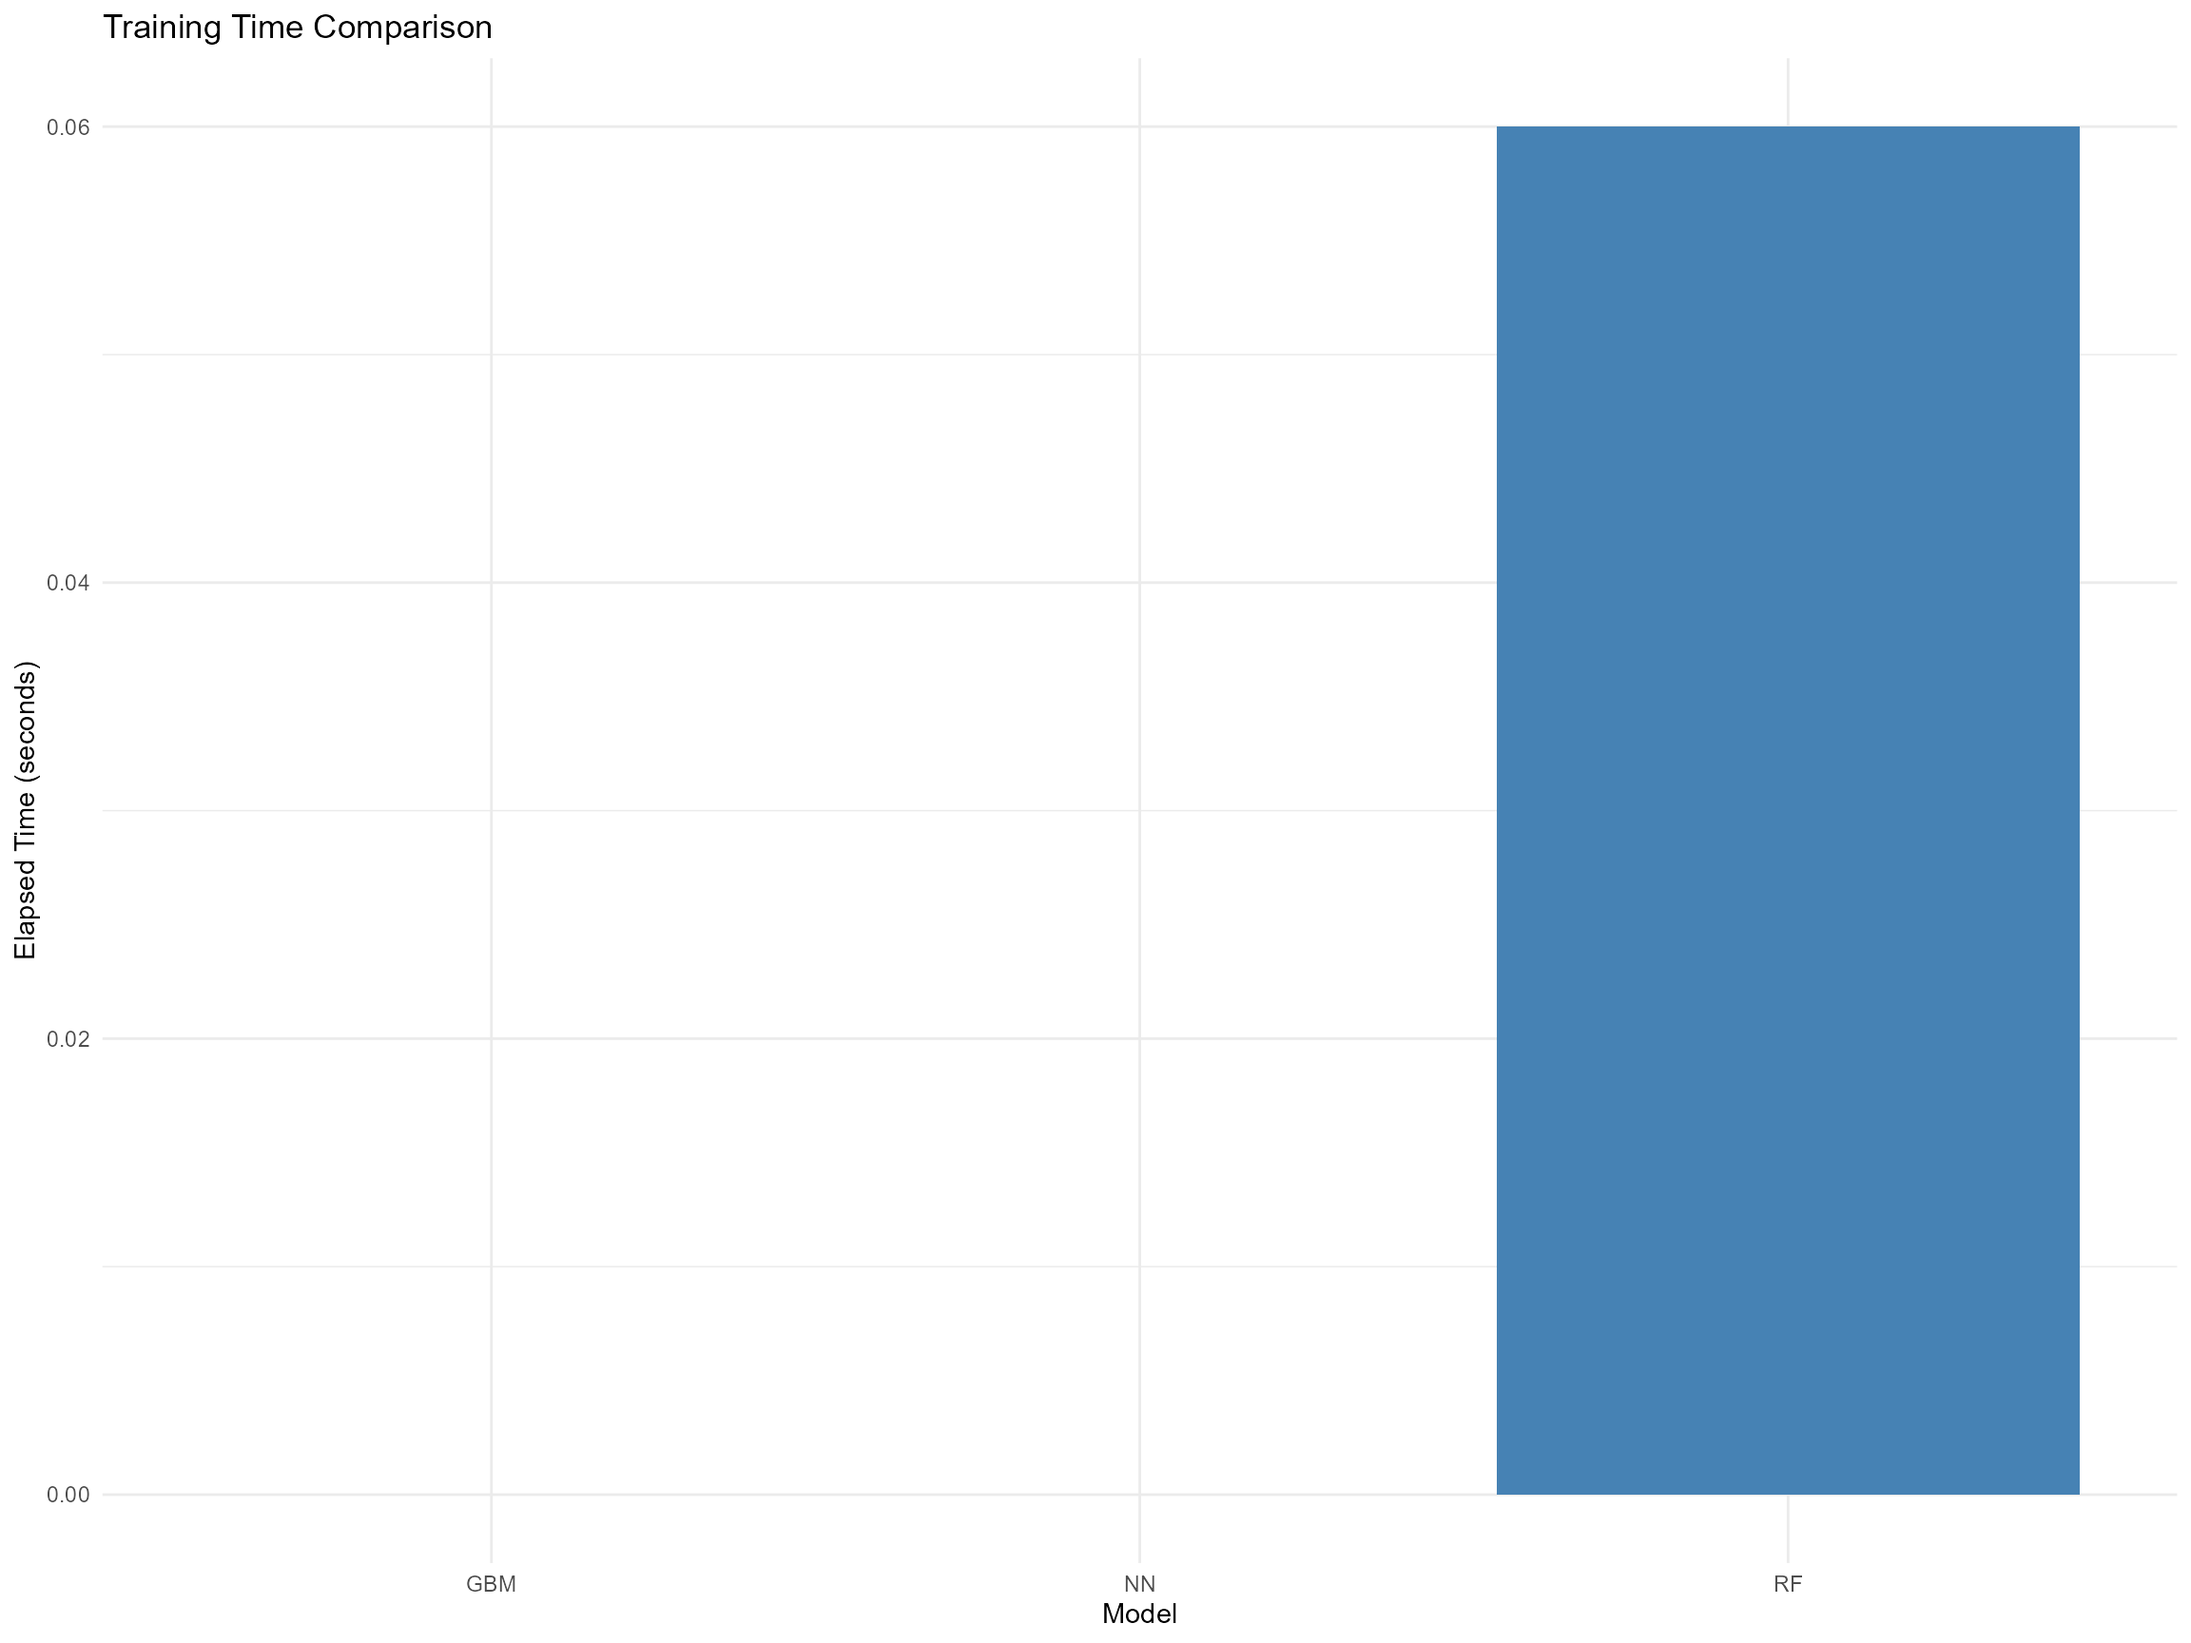
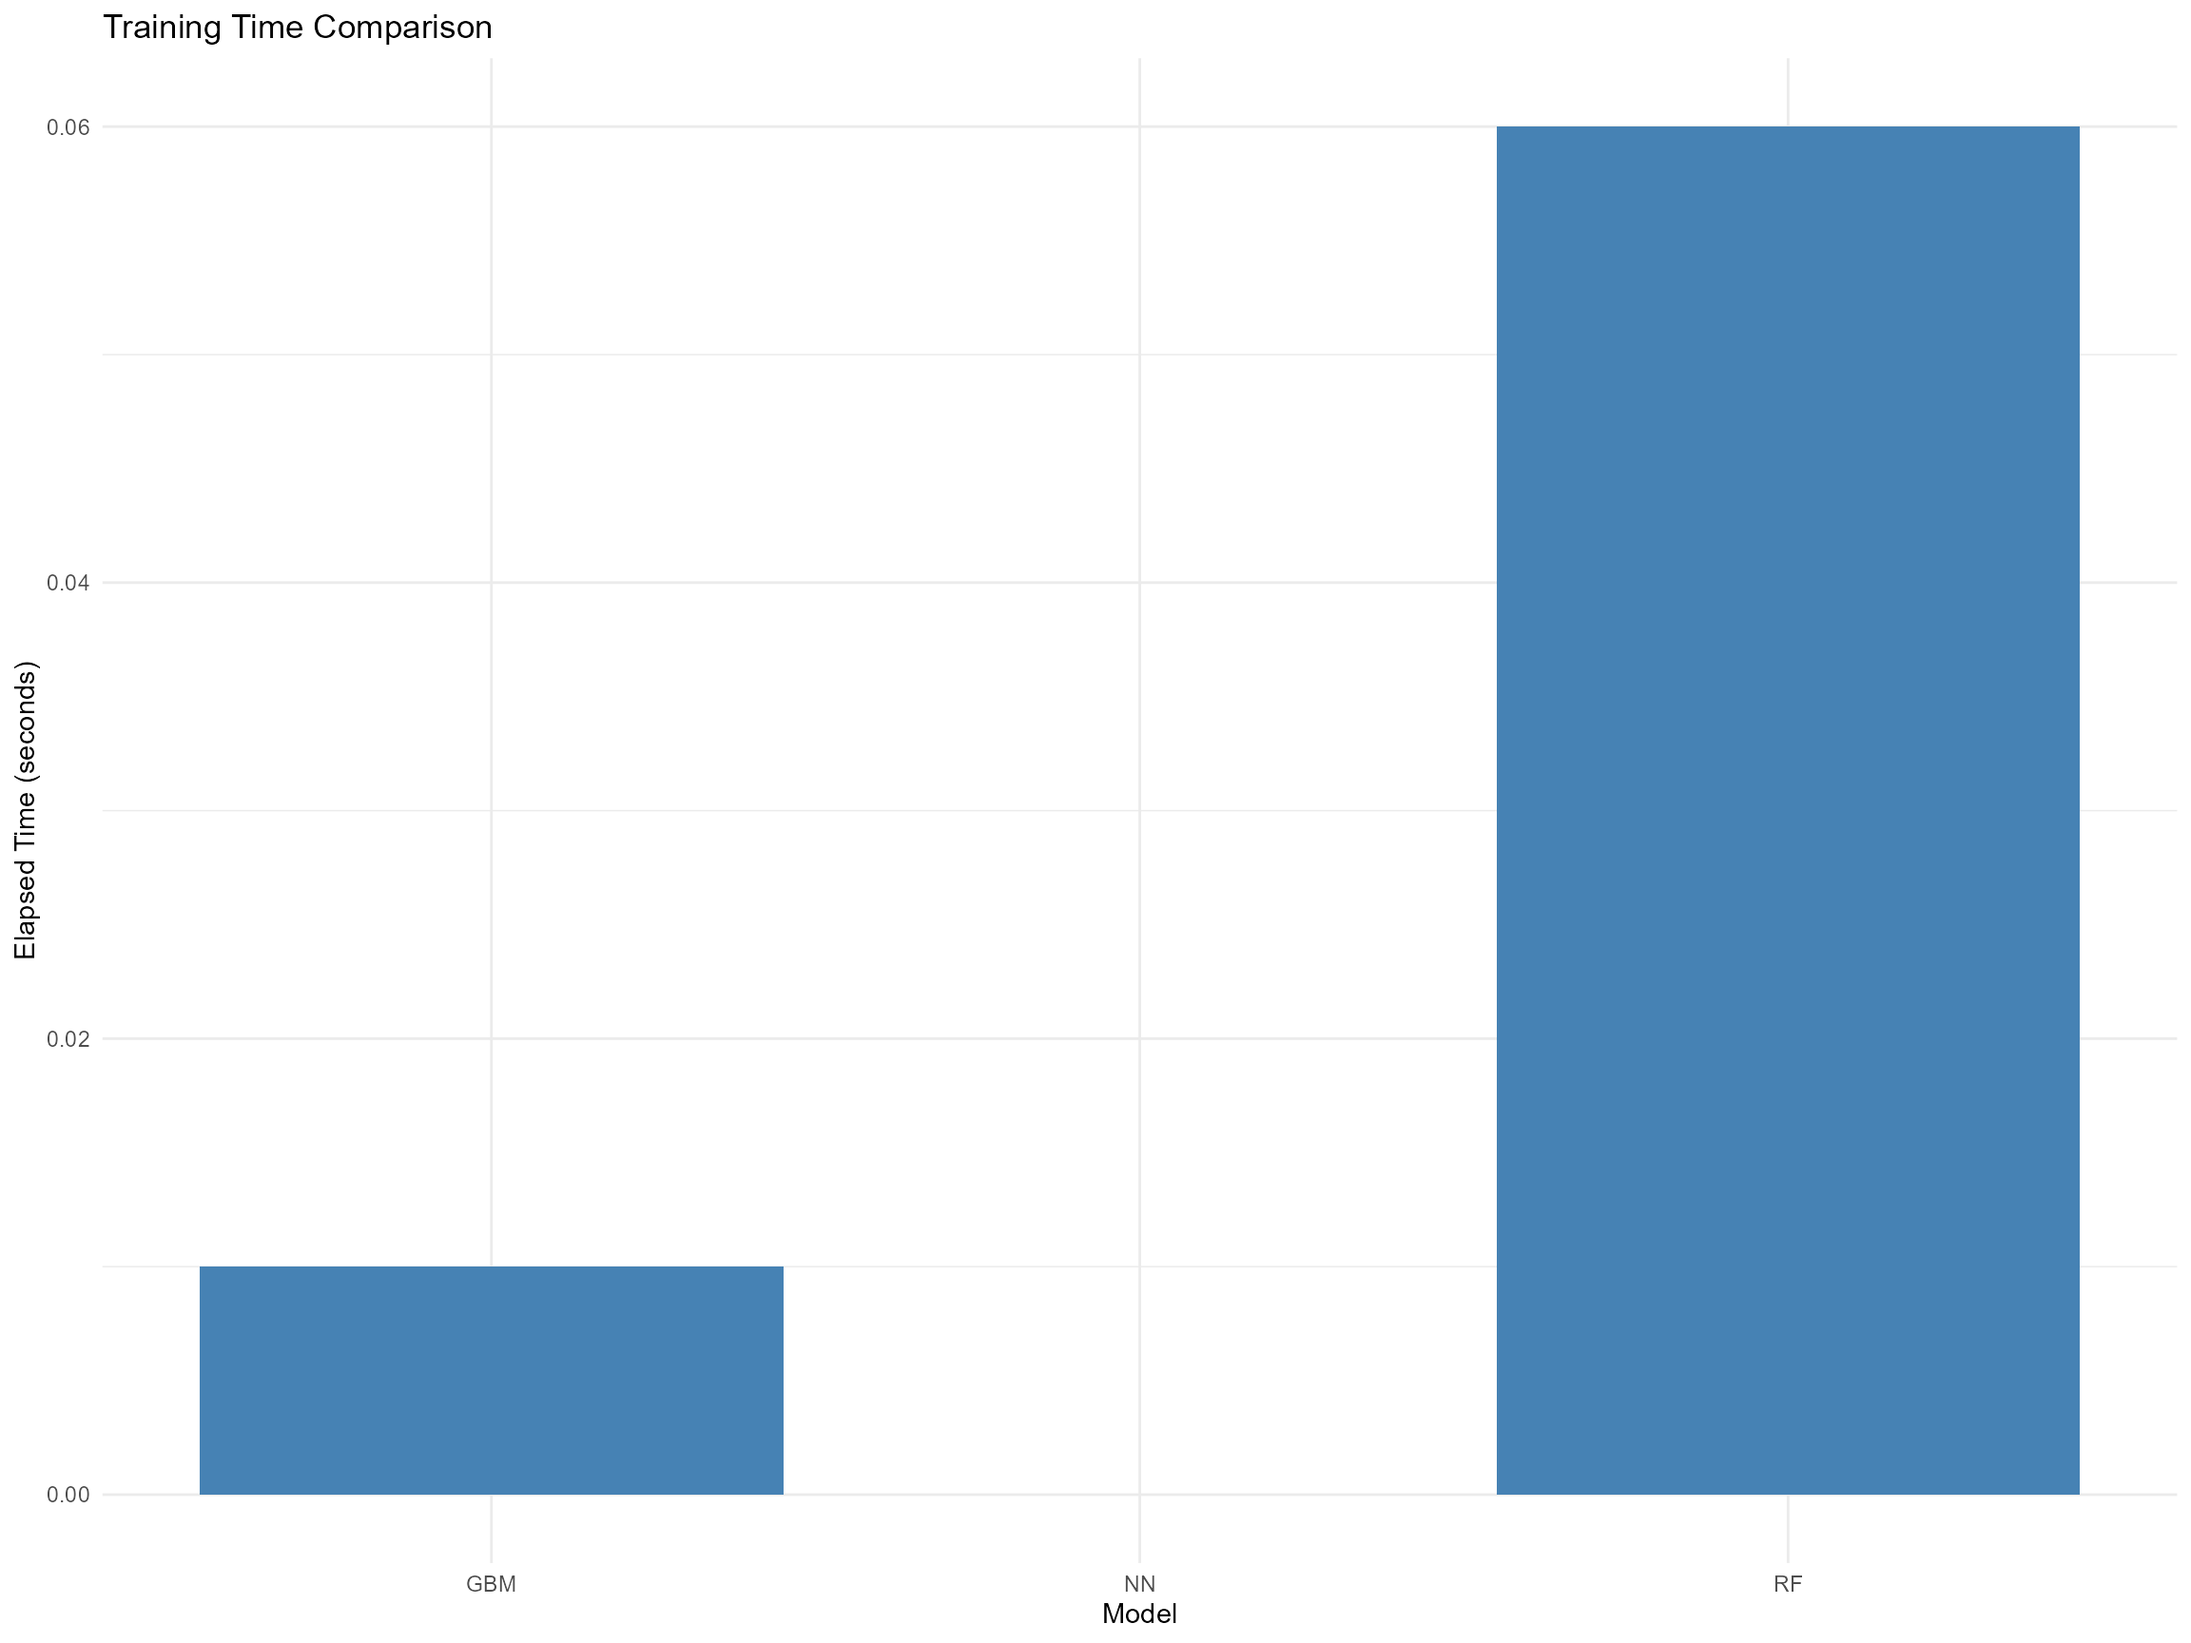
Site

Changed region(s): [[0.0938, 0.75, 0.375, 0.9375]]

diff --git a/docs/articles/GradBoostR.html b/docs/articles/GradBoostR.html
@@ -5,12 +5,12 @@
 <meta charset="utf-8">
 <meta http-equiv="X-UA-Compatible" content="IE=edge">
 <meta name="viewport" content="width=device-width, initial-scale=1, shrink-to-fit=no">
-<title>GradBoostR Vignette • GradBoostR</title>
+<title>Introduction to GradBoostR • GradBoostR</title>
 <script src="../deps/jquery-3.6.0/jquery-3.6.0.min.js"></script><meta name="viewport" content="width=device-width, initial-scale=1, shrink-to-fit=no">
 <link href="../deps/bootstrap-5.3.8/bootstrap.min.css" rel="stylesheet">
 <script src="../deps/bootstrap-5.3.8/bootstrap.bundle.min.js"></script><link href="../deps/font-awesome-6.5.2/css/all.min.css" rel="stylesheet">
 <link href="../deps/font-awesome-6.5.2/css/v4-shims.min.css" rel="stylesheet">
-<script src="../deps/headroom-0.11.0/headroom.min.js"></script><script src="../deps/headroom-0.11.0/jQuery.headroom.min.js"></script><script src="../deps/bootstrap-toc-1.0.1/bootstrap-toc.min.js"></script><script src="../deps/clipboard.js-2.0.11/clipboard.min.js"></script><script src="../deps/search-1.0.0/autocomplete.jquery.min.js"></script><script src="../deps/search-1.0.0/fuse.min.js"></script><script src="../deps/search-1.0.0/mark.min.js"></script><!-- pkgdown --><script src="../pkgdown.js"></script><meta property="og:title" content="GradBoostR Vignette">
+<script src="../deps/headroom-0.11.0/headroom.min.js"></script><script src="../deps/headroom-0.11.0/jQuery.headroom.min.js"></script><script src="../deps/bootstrap-toc-1.0.1/bootstrap-toc.min.js"></script><script src="../deps/clipboard.js-2.0.11/clipboard.min.js"></script><script src="../deps/search-1.0.0/autocomplete.jquery.min.js"></script><script src="../deps/search-1.0.0/fuse.min.js"></script><script src="../deps/search-1.0.0/mark.min.js"></script><!-- pkgdown --><script src="../pkgdown.js"></script><meta property="og:title" content="Introduction to GradBoostR">
 </head>
 <body>
     <a href="#main" class="visually-hidden-focusable">Skip to contents</a>
@@ -49,7 +49,7 @@
 <div class="row">
   <main id="main" class="col-md-9"><div class="page-header">
 
-      <h1>GradBoostR Vignette</h1>
+      <h1>Introduction to GradBoostR</h1>
                         <h4 data-toc-skip class="author">Nic Coxen</h4>
             
             <h4 data-toc-skip class="date">2026-10-22</h4>
@@ -349,11 +349,11 @@ Levels: A B</code></pre>
 <span></span>
 <span><span class="va">bench_gbm</span></span></code></pre></div>
 <pre><code>   user  system elapsed 
-   0.01    0.00    0.00 </code></pre>
+   0.00    0.00    0.01 </code></pre>
 <div class="sourceCode" id="cb27"><pre class="downlit sourceCode r">
 <code class="sourceCode R"><span><span class="va">bench_rf</span></span></code></pre></div>
 <pre><code>   user  system elapsed 
-   0.08    0.00    0.06 </code></pre>
+   0.05    0.00    0.06 </code></pre>
 <div class="sourceCode" id="cb29"><pre class="downlit sourceCode r">
 <code class="sourceCode R"><span><span class="va">bench_nn</span></span></code></pre></div>
 <pre><code>   user  system elapsed 

diff --git a/docs/authors.html b/docs/authors.html
@@ -45,13 +45,14 @@
 
       <p>Coxen N (2026).
 <em>GradBoostR: Gradient Boosting + RF + NN Engine</em>.
-R package version 0.1.0.
+R package version 0.1.0, <a href="https://nicjc.github.io/GradBoostR/">https://nicjc.github.io/GradBoostR/</a>.
 </p>
       <pre>@Manual{,
   title = {GradBoostR: Gradient Boosting + RF + NN Engine},
   author = {Nic Coxen},
   year = {2026},
   note = {R package version 0.1.0},
+  url = {https://nicjc.github.io/GradBoostR/},
 }</pre>
     </div>
 

diff --git a/docs/articles/index.html b/docs/articles/index.html
@@ -34,7 +34,7 @@
       <h3>Articles</h3>
       <div class="section-desc"></div>
 
-      <dl><dt><a href="GradBoostR.html">GradBoostR Vignette</a></dt>
+      <dl><dt><a href="GradBoostR.html">Introduction to GradBoostR</a></dt>
         <dd>
       </dd></dl></div>
   </main></div>

diff --git a/docs/authors.md b/docs/authors.md
@@ -7,11 +7,12 @@
 ## Citation
 
 Coxen N (2026). *GradBoostR: Gradient Boosting + RF + NN Engine*. R
-package version 0.1.0.
+package version 0.1.0, <https://nicjc.github.io/GradBoostR/>.
 
     @Manual{,
       title = {GradBoostR: Gradient Boosting + RF + NN Engine},
       author = {Nic Coxen},
       year = {2026},
       note = {R package version 0.1.0},
+      url = {https://nicjc.github.io/GradBoostR/},
     }

diff --git a/docs/articles/GradBoostR.md b/docs/articles/GradBoostR.md
@@ -1,4 +1,4 @@
-# GradBoostR Vignette
+# Introduction to GradBoostR
 
 ### Example Dataset
 
@@ -330,7 +330,7 @@ bench_gbm
 ```
 
        user  system elapsed 
-       0.01    0.00    0.00 
+       0.00    0.00    0.01 
 
 ``` r
 
@@ -338,7 +338,7 @@ bench_rf
 ```
 
        user  system elapsed 
-       0.08    0.00    0.06 
+       0.05    0.00    0.06 
 
 ``` r
 

diff --git a/README.md b/README.md
@@ -20,6 +20,9 @@ The package is designed for **speed**, **simplicity**, and **clean R interfaces*
 
 ---
 
+[![pkgdown site](https://img.shields.io/badge/docs-pkgdown-blue.svg)](https://nicjc.github.io/GradBoostR/)
+
+
 ## Installation
 
 ### From CRAN (once published)

diff --git a/docs/articles/index.md b/docs/articles/index.md
@@ -2,5 +2,5 @@
 
 ### Articles
 
-- [GradBoostR
-  Vignette](https://nicjc.github.io/GradBoostR/articles/GradBoostR.md):
+- [Introduction to
+  GradBoostR](https://nicjc.github.io/GradBoostR/articles/GradBoostR.md):
